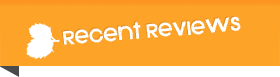
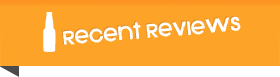
new image and template for regions

Changed region(s): [[0.0857, 0.1558, 0.2286, 0.7792]]

diff --git a/wp-content/themes/Lucid/page-region.php b/wp-content/themes/Lucid/page-region.php
@@ -4,8 +4,11 @@ Template Name: Pages by Region
 */
 ?>
 <?php get_header(); ?>
-
-<div id="content-area" class="clearfix fullwidth">
+<?php 
+	$variable = $_GET['var'];
+	
+	?>
+<div id="content-area" class="clearfix">
 	
 	<div id="left-area">
 		<?php get_template_part('includes/breadcrumbs', 'page'); ?>
@@ -28,12 +31,13 @@ Template Name: Pages by Region
 		<?php } ?>
 				<div class="post_content clearfix">
 			<h1 class="title"><?php the_title(); ?></h1>
+			<h2><?php echo $variable; ?></h2>
+</div> 	<!-- end .post_content -->
+
+</article> <!-- end .entry -->
 <!--end wrap for original gets-->	
-<ul class="longList">	
-<?php 
-	$variable = $_GET['var'];
-	
-	?>
+
+
 <?php $args = array(
 	'posts_per_page'   => 2000,
 	'offset'           => 0,
@@ -56,19 +60,37 @@ Template Name: Pages by Region
 
 	$myposts = get_posts( $args );
 	foreach ( $myposts as $post ) : setup_postdata( $post ); ?>
-		<?php 
+<?php 
 	
 		$postID = get_the_ID();
 		$postRegionVar = get_post_meta($postID, "Region", true );
 	
 	 	?>
+
 			<?php 
 			if($variable == $postRegionVar){ 
 				$permalink = get_permalink($postID);
 				$title = get_the_title($postID);
+				$content = $post->post_content;
+				$content = truncate_post(170,false);
+				$image_thumb = wp_get_attachment_image_src( get_post_thumbnail_id( $postID));
 			?>
-			<li><a href="<?php echo $permalink ?>"> <?php echo $title ?></a></li>
-		
+			<article id="post-<?php $postID; ?>"   <?php post_class('entry clearfix'); ?>>
+			
+			<?php	
+			echo '<div class="post_content clearfix">
+	<div style="float:left;width:90px;height:90px;-webkit-border-radius: 45px;-moz-border-radius:45px;background: url('.$image_thumb[0].') no-repeat;background-size:90px 90px;margin-left:13px;margin-top:9px;margin-right:15px;margin-bottom:25px;border:2px solid #fda428;" ></div>';
+	?>
+	<?php 
+	echo '
+	<h2 class="title"><a href="'. $permalink .'">'. $title .'</a></h2>';
+	echo '<p>'.$content.'</p>';
+	?>
+	  
+		</div>
+	</article> <!-- end .entry -->	
+
+	 
 	 		<?php } ?>
 		
 	
@@ -76,16 +98,16 @@ Template Name: Pages by Region
 	<?php endforeach; 
 	wp_reset_postdata();?>
 
-</ul>
+
 <!--start wrap again-->
 		
-<?php the_content(); ?>
+
 			<?php wp_link_pages(array('before' => '<p><strong>'.esc_attr__('Pages','Lucid').':</strong> ', 'after' => '</p>', 'next_or_number' => 'number')); ?>
 			<?php edit_post_link(esc_attr__('Edit this page','Lucid')); ?>			
-				</div> 	<!-- end .post_content -->
-	</article> <!-- end .entry -->
-<?php endwhile; // end of the loop. ?>	
-		
+				
+	
+
+	<?php endwhile; // end of the loop. ?>		
 <!--end wrap again-->		
 		
 		
@@ -94,7 +116,7 @@ Template Name: Pages by Region
 		
 	</div> <!-- end #left-area -->
 	
-	
+	<?php if ( ! $fullwidth ) get_sidebar(); ?>
 </div> 	<!-- end #content-area -->
 
 <?php get_footer(); ?>
